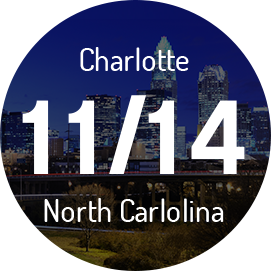
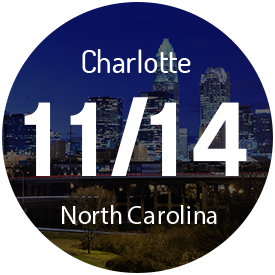
copy edits

diff --git a/app/assets/stylesheets/public_website/sessions.css.scss b/app/assets/stylesheets/public_website/sessions.css.scss
@@ -14,9 +14,10 @@
   .description {
     font-family: 'Dosis', Arial, sans-serif;
     color: #333;
-    font-size: 36px;
-    line-height: 56px;
+    font-size: 26px;
+    line-height: 44px;
     margin-bottom: 40px;
+    text-align: center;
   }
 
   .details {
@@ -34,25 +35,30 @@
       padding: 0;
     }
 
+    h1 {
+      font-size: 28px;
+      line-height: 28px;
+    }
+
     h2 {
       font-family: 'Lato', Arial, sans-serif;
-      font-size: 78px;
-      line-height: 78px;
+      font-size: 40px;
+      line-height: 40px;
       font-weight: bold;
       color: $brand-pink;
       margin: 15px 0 25px 0;
     }
 
     h3 {
-      font-size: 48px;
+      font-size: 28px;
       font-weight: 500;
-      line-height: 48px;
+      line-height: 28px;
       margin-bottom: 10px !important;
     }
 
     h4 {
-      font-size: 35px;
-      line-height: 35px;
+      font-size: 25px;
+      line-height: 25px;
     }
 
     h3, h4 {
@@ -161,8 +167,9 @@
     }
 
     p {
-      font-size: 24px;
-      margin: 0 0 28px 0;
+      font-size: 20px;
+      line-height: 28px;
+      margin: 0 0 20px 0;
 
       &:last-child {
         margin-bottom: 0;
@@ -179,8 +186,8 @@
     h1 {
       font-family: 'Lato', Arial, sans-serif;
       text-align: center;
-      font-size: 125px;
-      line-height: 125px;
+      font-size: 55px;
+      line-height: 55px;
       font-weight: 700;
       color: $brand-pink;
       margin: -15px 0 0 0;
@@ -198,6 +205,7 @@
       .button {
         padding-left: 90px;
         padding-right: 90px;
+        margin-bottom: 0;
       }
     }
   }
@@ -222,8 +230,8 @@
 
   h1 {
     font-family: 'Lato', Arial, sans-serif;
-    font-size: 55px;
-    line-height: 65px;
+    font-size: 35px;
+    line-height: 45px;
     font-weight: bold;
   }
 
@@ -283,6 +291,8 @@
     }
 
     .ticketing {
+      padding-bottom: 20px;
+
       h1 {
         font-size: 40px;
         line-height: 40px;
@@ -290,6 +300,11 @@
         span {
           font-size: 20px;
         }
+      }
+      .button-wrapper .button {
+        margin-bottom: 0;
+        padding-left: 30px;
+        padding-right: 30px;
       }
     }
   }
@@ -305,7 +320,7 @@
   }
   .circles {
     margin-bottom: 0;
-    
+
     img {
       margin-bottom: 20px;
     }

diff --git a/app/assets/stylesheets/public_website/callout.css.scss b/app/assets/stylesheets/public_website/callout.css.scss
@@ -91,15 +91,20 @@
     background: #333;
     margin-bottom: 5px;
 
-    .container {
+    a, a:link, a:visited, a:hover, a:active {
       font-size: 21px;
       line-height: 29px;
       font-weight: bold;
       color: #FFF;
+      text-decoration: none;
 
       .brand-blue {
         color: $brand-blue;
       }
+    }
+
+    a:hover, a:active {
+      color: $brand-blue;
     }
   }
 
